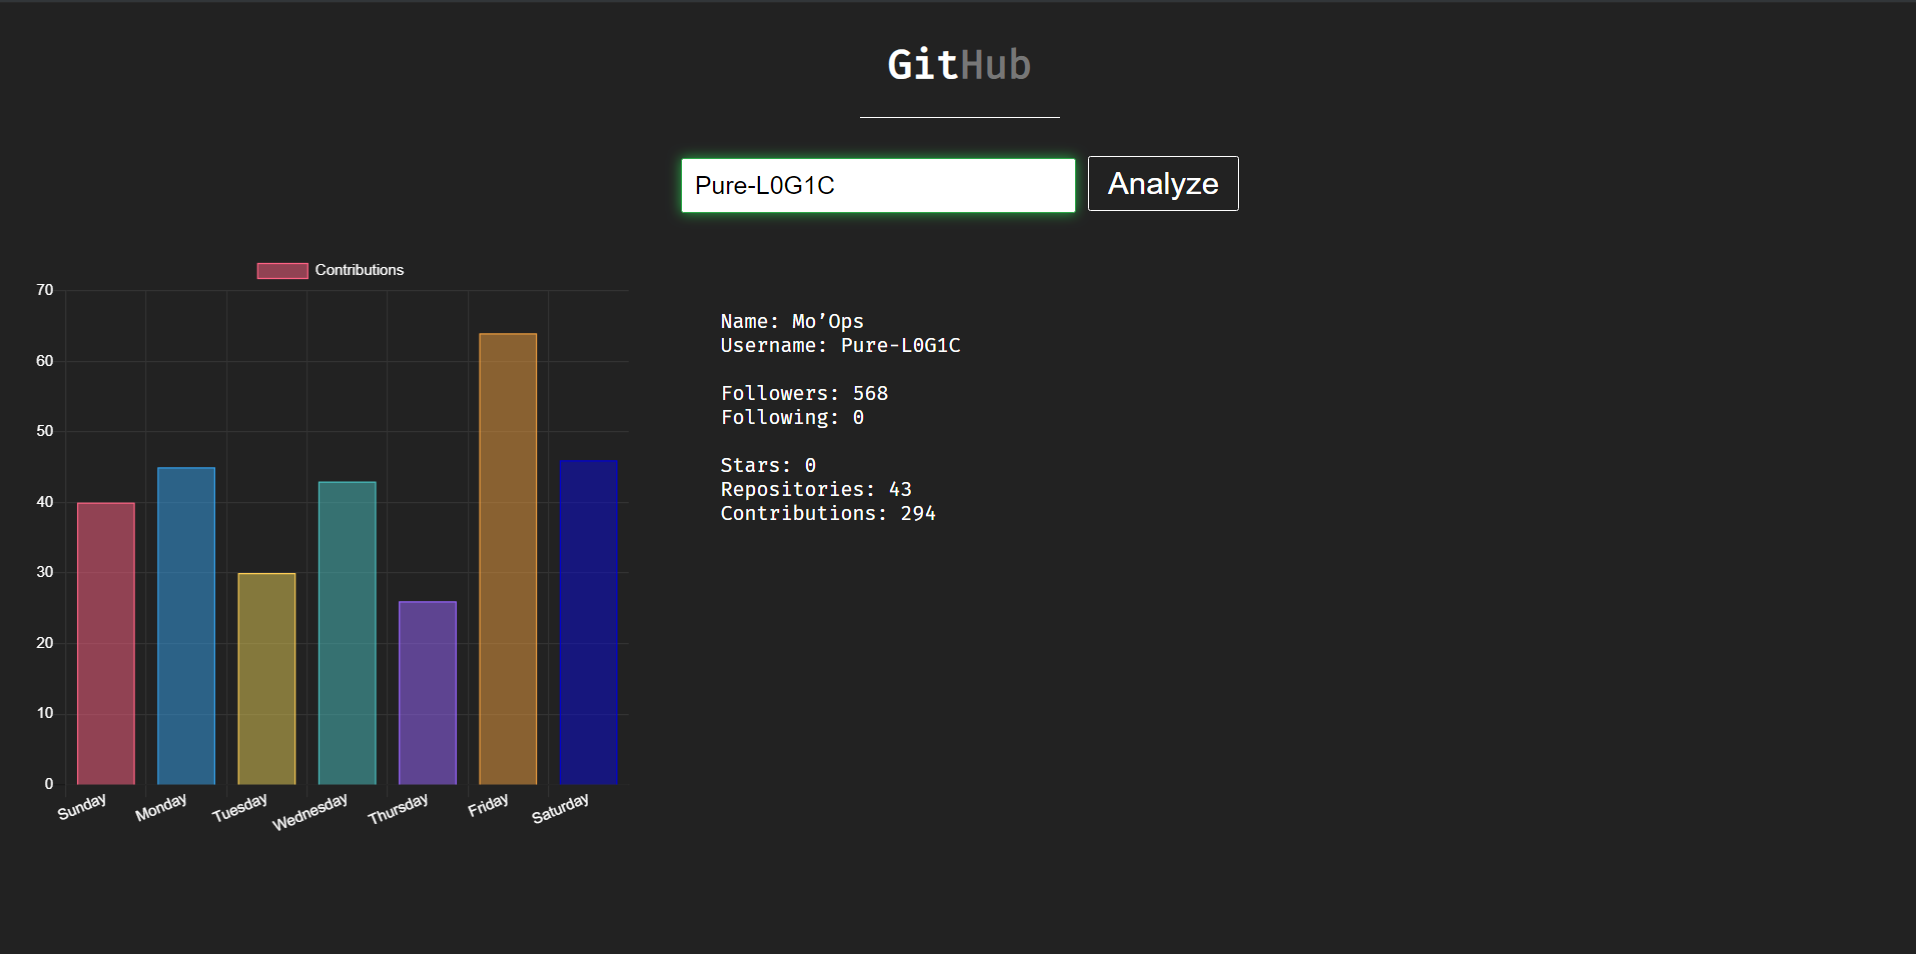
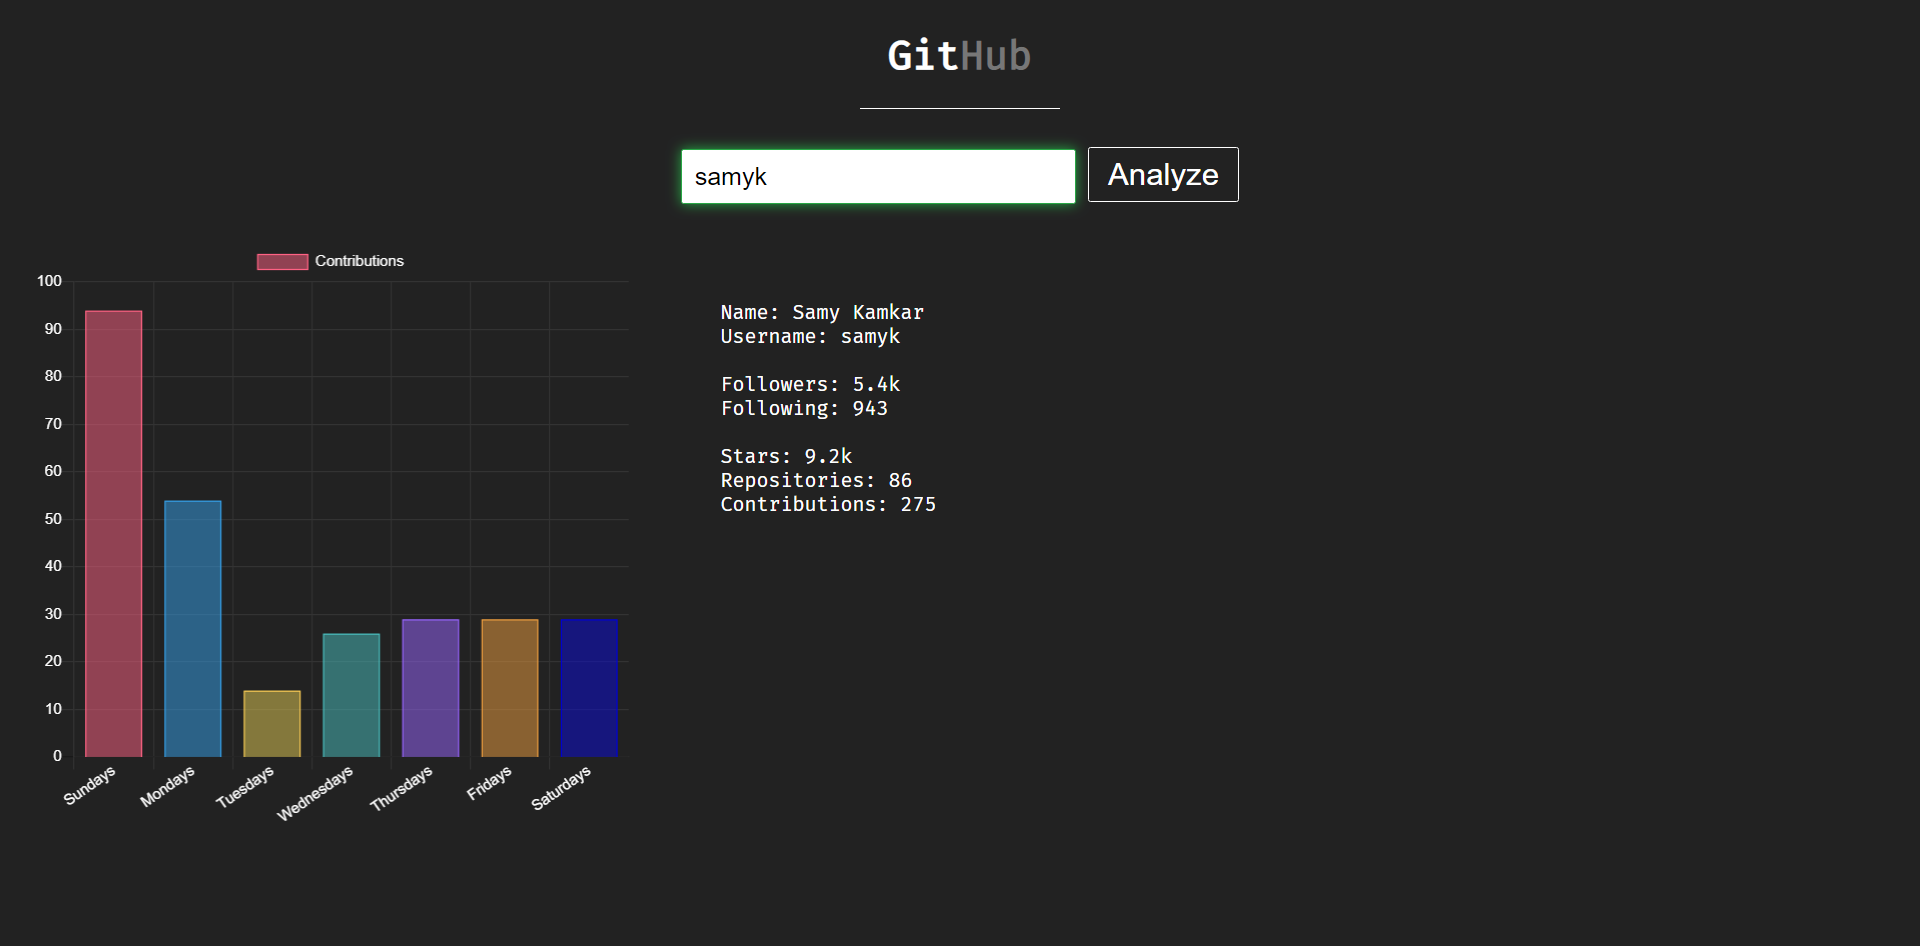
Update

diff --git a/static/js/graph.js b/static/js/graph.js
@@ -73,7 +73,7 @@ function graph(data) {
     myChart = new Chart(ctx, {
         type: 'bar',
         data: {
-            labels: ['Sunday', 'Monday', 'Tuesday', 'Wednesday', 'Thursday', 'Friday', 'Saturday'],
+            labels: ['Sundays', 'Mondays', 'Tuesdays', 'Wednesdays', 'Thursdays', 'Fridays', 'Saturdays'],
             datasets: [
                 {
                     label: 'Contributions',
